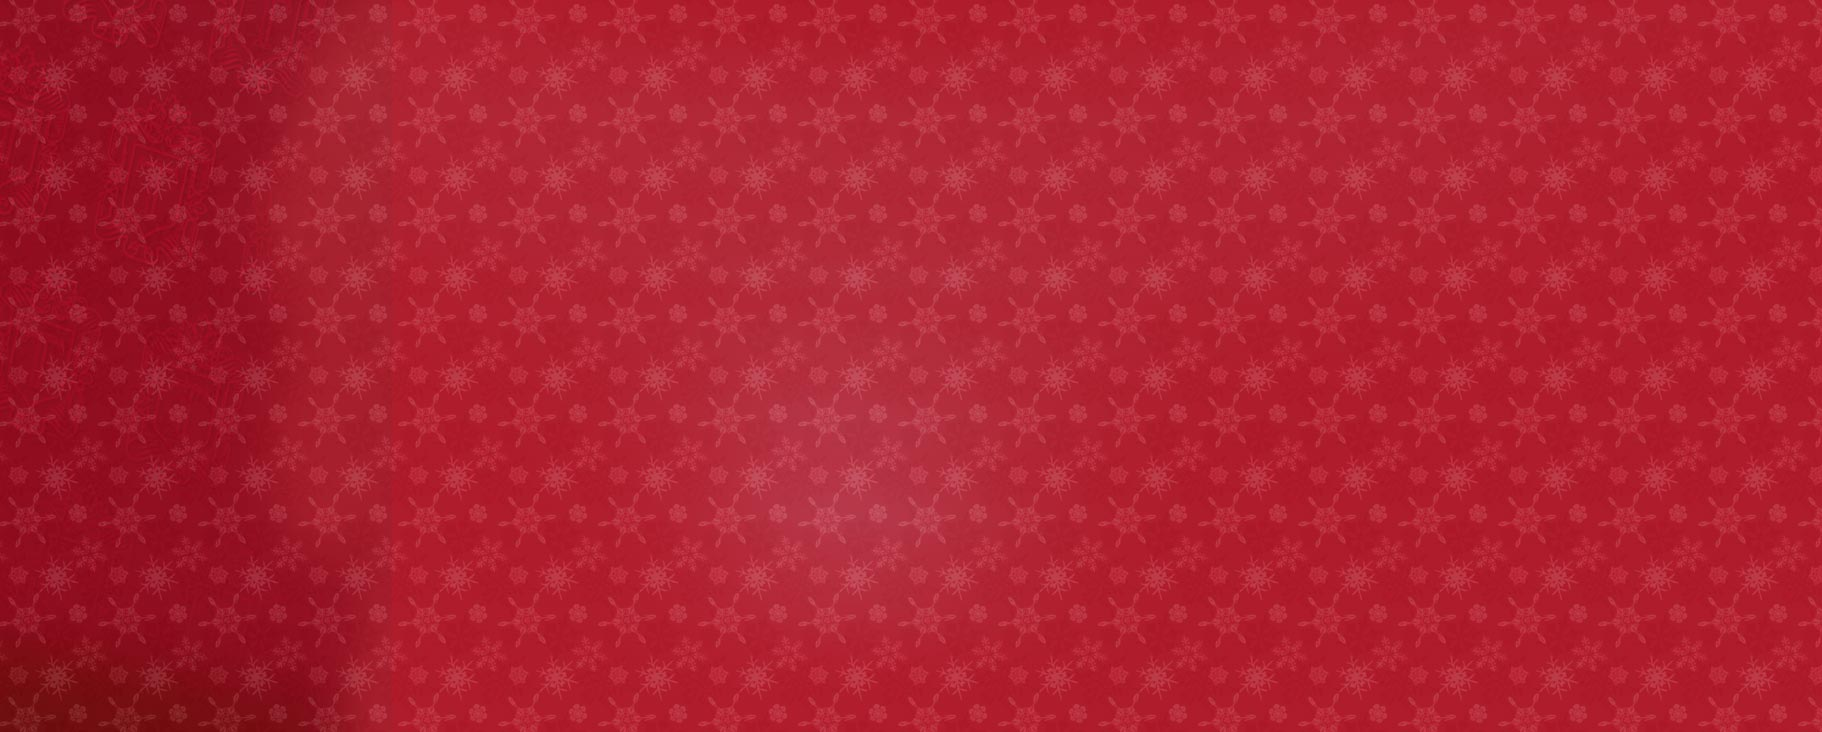
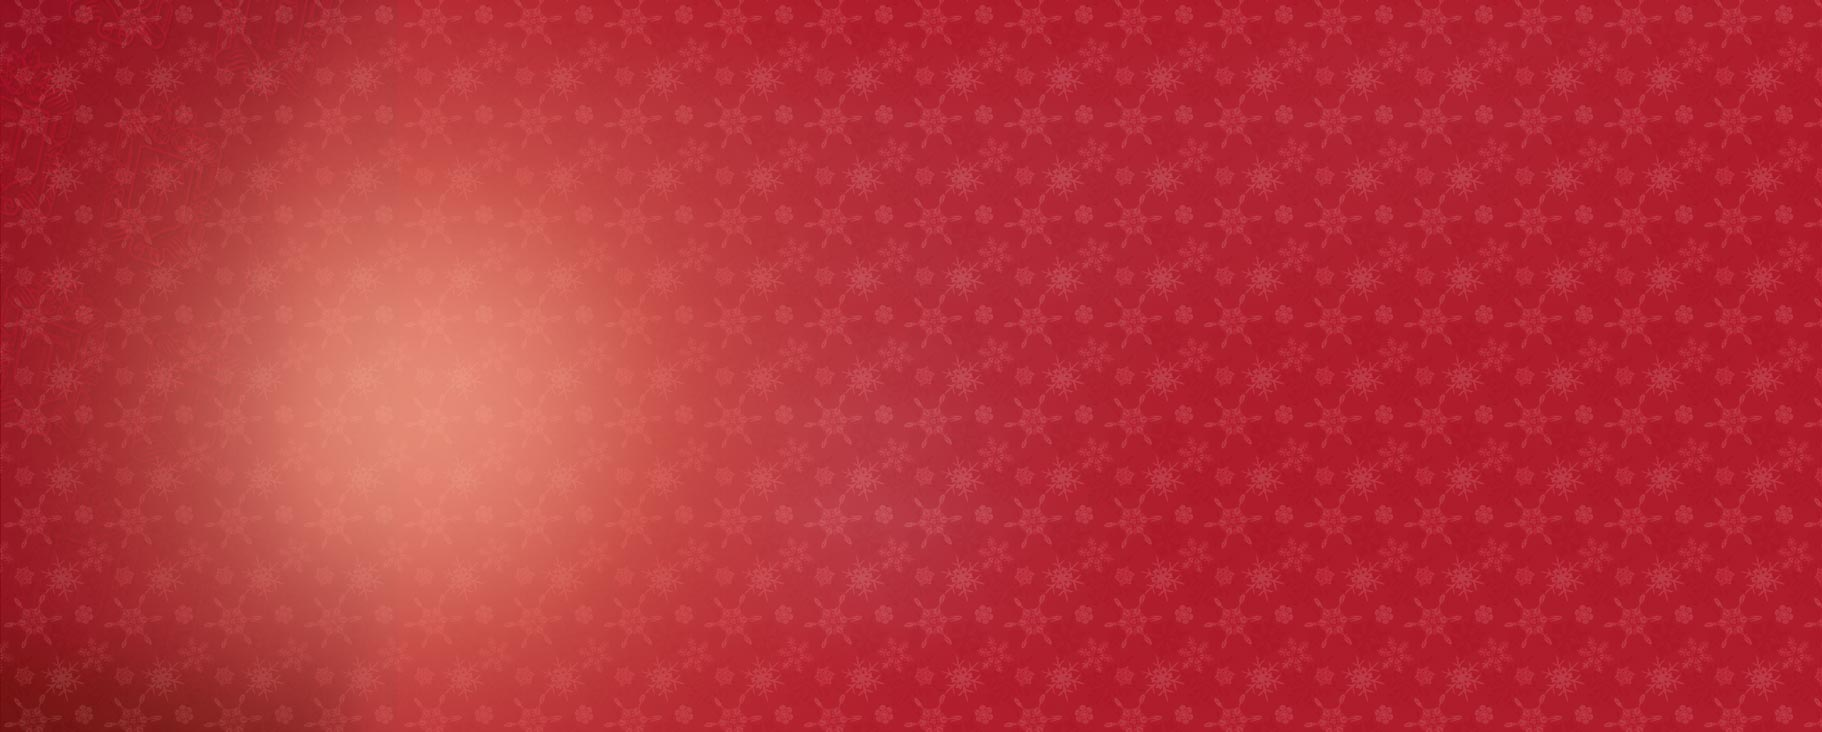
fixing all layout
fixing all layout

Changed region(s): [[0.0, 0.0301, 0.4303, 1.0], [0.1537, 0.0, 0.1844, 0.0301]]

diff --git a/source/layout/css/style_100.css b/source/layout/css/style_100.css
@@ -82,7 +82,7 @@ nav ul li {
 	left:0;
 	background-image:url(../images/common/bg_content_1.jpg);
 	background-size:1822px 732px;
-	background-position-x:0;
+	background-position-x:-100px;
 	z-index:0;
 }
 .bg_content_2 {

diff --git a/source/layout/css/style_creative.css b/source/layout/css/style_creative.css
@@ -1,5 +1,6 @@
 .bg_content_1 {
 	background-image:url(../images/common/bg_content_creative_1.jpg);
+	background-position-x:-100px;
 }
 .bg_content_3 {
 	background-image:none;
